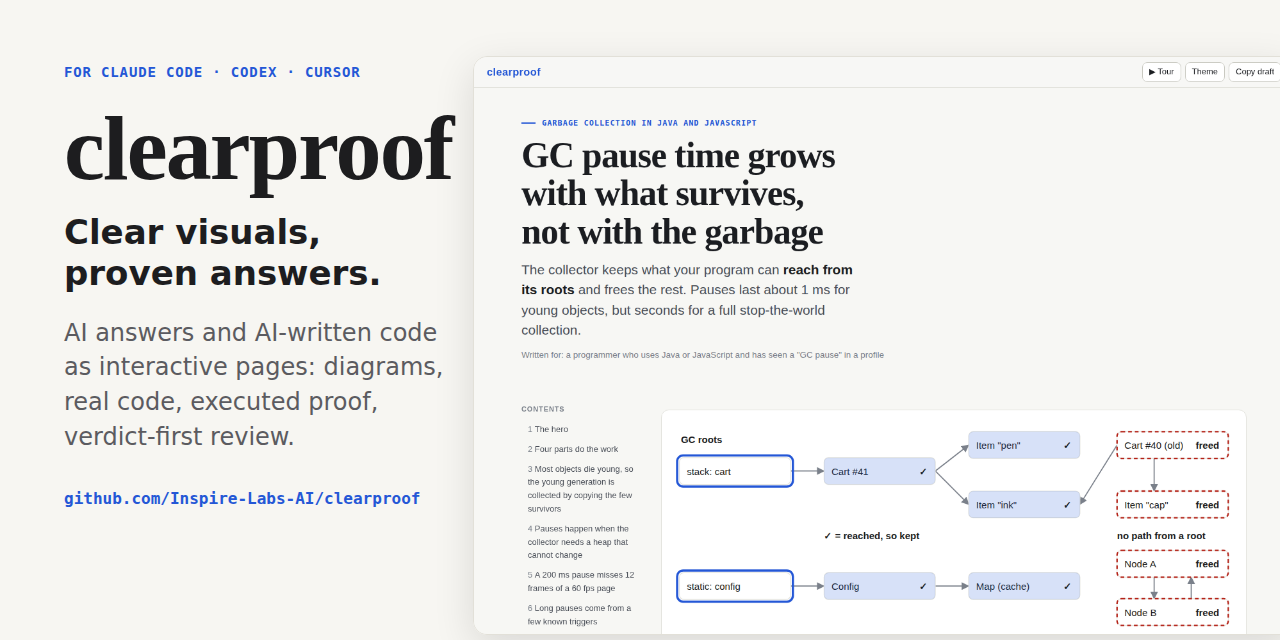
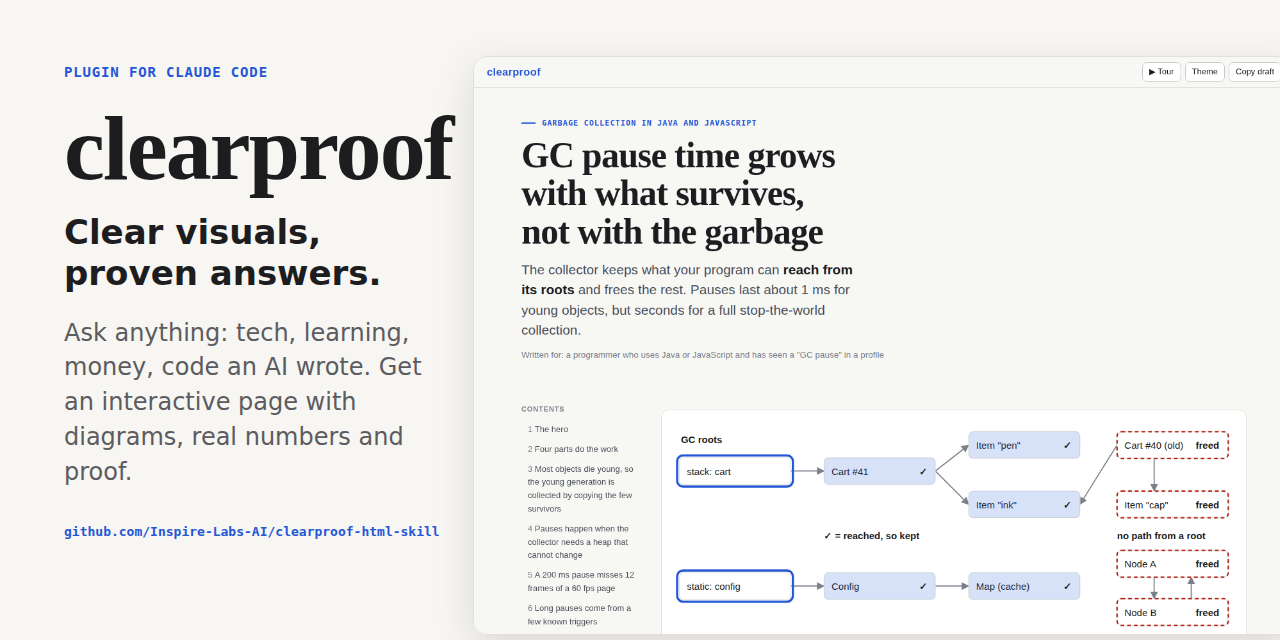
Use clearproof-html-skill as the repository name
Brand plus the words people search for ("html skill"). Update the
install command, links, metadata, landing page, methodology code links
and the social preview (which now uses the product wording).

Claude-Session: https://claude.ai/code/session_015hwiLpJLzKC155qaZvB42B

Changed region(s): [[0.0312, 0.5, 0.3438, 0.8438], [0.0312, 0.0938, 0.1875, 0.125], [0.2188, 0.0938, 0.2812, 0.125]]

diff --git a/docs/methodology.html b/docs/methodology.html
@@ -537,19 +537,19 @@ card('Options → small multiples', 'failure modes, plans, scenarios', (s) => {
 });
 </script></div><p class="figcap"><b>Fig. 2</b> Pick the figure by the shape of the information: a process steps, a setting slides, quantities compare, cases repeat.</p></div></section>
 <section class="panel span-full" id="s-3-prove-the-page-shows-its-evidence" data-say="A number on the page must come from somewhere the reader can check. clearproof runs the real code at render time and prints the output."><div class="kick"><span>04</span> Prove</div><h2><span class="num-accent">3. </span>Prove: the page shows its evidence</h2><div class="prose"><p>A number on the page must come from somewhere the reader can check. clearproof runs the real code at render time and prints the output. It warns when a chart value does not appear in that output.</p></div>
-<figure class="run"><figcaption>Ran while this page was made · real output</figcaption><div class="run-step"><div class="run-head"><code class="cmd">$ node examples/home-loan/loan.mjs prepay</code><span class="exit ok">exit 0</span><span class="ms">45 ms</span></div><p class="run-note">The loan page does not type its numbers. It runs this calculator and quotes its output.</p><pre class="out">Year 1: saves ₹7.99 lakh, ends 24 months early
+<figure class="run"><figcaption>Ran while this page was made · real output</figcaption><div class="run-step"><div class="run-head"><code class="cmd">$ node examples/home-loan/loan.mjs prepay</code><span class="exit ok">exit 0</span><span class="ms">46 ms</span></div><p class="run-note">The loan page does not type its numbers. It runs this calculator and quotes its output.</p><pre class="out">Year 1: saves ₹7.99 lakh, ends 24 months early
 Year 5: saves ₹5.28 lakh, ends 17 months early
 Year 10: saves ₹2.86 lakh, ends 12 months early
 Year 15: saves ₹1.23 lakh, ends 8 months early</pre><div class="checks"><span class="chk shows ok">✓ output shows “Year 1: saves ₹7.99 lakh”</span></div></div></figure>
 <div class="prose"><div class="tbl"><table><thead><tr><th>Domain</th><th>Where proof comes from</th></tr></thead><tbody><tr><td>Code and systems</td><td><code>[[file:line]]</code> references read from disk, <code>run</code> blocks that call the real code, diff hunks from git</td></tr><tr><td>Money</td><td>a calculator in the repo, run at render time; rates and rules cited with links</td></tr><tr><td>Science, health</td><td>linked sources, labelled measurements, &quot;illustrative&quot; on every simplified model</td></tr><tr><td>Decisions, policy</td><td>a <code>claims</code> ledger: verified, inferred, unverified, each with its basis</td></tr></tbody></table></div></div>
-<div class="claims"><div class="claim c-verified"><span class="cs" title="Verified">✓ Verified</span><div><p>The loan figures on this page come from a script, not from the model.</p><p class="ev">run</p></div></div><div class="claim c-verified"><span class="cs" title="Verified">✓ Verified</span><div><p>Every page is checked at 1280 px and 390 px before it is shown.</p><p class="ev"><a class="ref" href="https://github.com/Inspire-Labs-AI/clearproof/blob/HEAD/skills/clearproof/scripts/lib/check.mjs#L1" data-snip="1▌ import { readFileSync } from 'node:fs';
+<div class="claims"><div class="claim c-verified"><span class="cs" title="Verified">✓ Verified</span><div><p>The loan figures on this page come from a script, not from the model.</p><p class="ev">run</p></div></div><div class="claim c-verified"><span class="cs" title="Verified">✓ Verified</span><div><p>Every page is checked at 1280 px and 390 px before it is shown.</p><p class="ev"><a class="ref" href="https://github.com/Inspire-Labs-AI/clearproof-html-skill/blob/HEAD/skills/clearproof/scripts/lib/check.mjs#L1" data-snip="1▌ import { readFileSync } from 'node:fs';
 2  // Look at the rendered page the way a reader would, and report what is broken.
 3  // Problems come back in the same &quot;where / what&quot; shape as draft errors so the agent can fix them.">skills/clearproof/scripts/lib/check.mjs:1</a></p></div></div><div class="claim c-inferred"><span class="cs" title="Inferred">~ Inferred</span><div><p>The method helps any reader who must trust a number.</p><p class="ev">Blind judges scored trust highest on clearproof pages in every round.</p></div></div></div></section>
 <section class="panel span-full" id="s-4-check-the-tool-reads-the-page-before-you-do" data-say="The model never sees its own page by default. clearproof makes it look."><div class="kick"><span>05</span> Check</div><h2><span class="num-accent">4. </span>Check: the tool reads the page before you do</h2><div class="prose"><p>The model never sees its own page by default. clearproof makes it look.</p></div>
 <div class="checklist" data-id="l3"><p class="progress"><span>0</span> of 4 checked</p><ul><li><label><input type="checkbox" data-k="l3-0"> <span>Plain English: one idea per sentence, 25 words at most, active voice (ASD-STE100 style).</span></label></li><li><label><input type="checkbox" data-k="l3-1"> <span>One number per quantity: the render lists every number by unit, so &quot;16 GB&quot; and &quot;15 GB&quot; for the same heap stand out.</span></label></li><li><label><input type="checkbox" data-k="l3-2"> <span>Layout at desktop and phone width: overflow, cut-off tables, overlapping labels, text too small to read.</span></label></li><li><label><input type="checkbox" data-k="l3-3"> <span>Screenshots of the whole page and of each figure, for the next step.</span></label></li></ul></div></section>
 <section class="panel span-full" id="s-5-critique-score-it-like-a-blind-judge-then-fix" data-say="Read all figures on one sheet and score four things. Fix the three weakest in one round, then answer."><div class="kick"><span>06</span> Critique</div><h2><span class="num-accent">5. </span>Critique: score it like a blind judge, then fix</h2><div class="prose"><p>Read all figures on one sheet and score four things. Fix the three weakest in one round, then answer.</p></div>
 <div class="figwrap"><figure class="chart"><svg viewBox="0 0 680 136" role="img" aria-label="Bar chart"><line class="axis" x1="156.95000000000002" x2="156.95000000000002" y1="0" y2="136"/><g data-step="1"><text class="lab" x="148.95000000000002" y="19.5">clearproof</text><rect class="s0" x="157.0" y="6" width="203.0" height="18" rx="3"/><text class="val hot" x="366.0" y="19">18 points<tspan class="anno" dx="10">figure-first pages plus the critique pass</tspan></text></g><g data-step="2"><text class="lab" x="148.95000000000002" y="52.5">visual-explainer</text><rect class="muted" x="157.0" y="39" width="197.4" height="18" rx="3"/><text class="val" x="360.4" y="52">17.5 points</text></g><g data-step="3"><text class="lab" x="148.95000000000002" y="85.5">plain HTML</text><rect class="muted" x="157.0" y="72" width="157.9" height="18" rx="3"/><text class="val" x="320.9" y="85">14 points</text></g><g data-step="4"><text class="lab" x="148.95000000000002" y="118.5">answer-me-with-html</text><rect class="muted" x="157.0" y="105" width="152.3" height="18" rx="3"/><text class="val" x="315.2" y="118">13.5 points</text></g></svg></figure><p class="figcap"><b>Fig. 3</b> clearproof's average explainer score in round 4 was 18.0 of 20, ahead of 17.5 for visual-explainer.</p></div>
-<figure class="run"><figcaption>Ran while this page was made · real output</figcaption><div class="run-step"><div class="run-head"><code class="cmd">$ grep &quot;Explain average&quot; docs/benchmark.md</code><span class="exit ok">exit 0</span><span class="ms">4 ms</span></div><p class="run-note">The chart quotes the benchmark record, not memory.</p><pre class="out">| **Explain average** | **18.0** | 17.5 | 14.0 | 13.5 |</pre><div class="checks"><span class="chk shows ok">✓ output shows “18.0”</span></div></div></figure>
+<figure class="run"><figcaption>Ran while this page was made · real output</figcaption><div class="run-step"><div class="run-head"><code class="cmd">$ grep &quot;Explain average&quot; docs/benchmark.md</code><span class="exit ok">exit 0</span><span class="ms">5 ms</span></div><p class="run-note">The chart quotes the benchmark record, not memory.</p><pre class="out">| **Explain average** | **18.0** | 17.5 | 14.0 | 13.5 |</pre><div class="checks"><span class="chk shows ok">✓ output shows “18.0”</span></div></div></figure>
 <div class="prose"><div class="tbl"><table><thead><tr><th>Score</th><th>Question the judge asks</th></tr></thead><tbody><tr><td>Clarity</td><td>Can I state the answer after the first screen?</td></tr><tr><td>Visuals</td><td>Does each figure show the mechanism, with real values?</td></tr><tr><td>Readability</td><td>Short sentences, labels in the picture, no wall of text?</td></tr><tr><td>Trust</td><td>Can I check each claim? Does each number agree everywhere?</td></tr></tbody></table></div></div></section>
 <section class="panel span-full" id="when-not-to-use-it" data-say="When not to use it"><div class="kick"><span>07</span></div><h2>When not to use it</h2><aside class="callout c-info"><b class="ci" aria-hidden="true">ℹ</b><div><strong>Skip the page</strong><p>One-line answers, commands to copy, quick code edits, or &quot;plain text please&quot;. The method costs about 3 minutes. Spend them when the reader must understand or decide.</p></div></aside></section>
 <section class="panel span-full" id="check-yourself" data-say="Check yourself"><div class="kick"><span>08</span></div><h2>Check yourself</h2><div class="quiz"><div class="q" data-multi="false"><p class="qq"><b>Q1.</b> A friend asks &quot;is a 15-year or a 30-year mortgage better for me?&quot; What is the hero figure?</p><div class="opts"><button type="button" class="opt" data-ok="true">A chart of total interest and monthly payment for both, the key number highlighted<span class="owhy" hidden>Yes. It is a &quot;which is better&quot; question, so the hero is the number.</span></button><button type="button" class="opt" data-ok="false">A flow diagram of how a bank approves a loan<span class="owhy" hidden>That answers a different question.</span></button><button type="button" class="opt" data-ok="false">A glossary of loan terms<span class="owhy" hidden>Terms help, but they do not show the answer.</span></button></div></div><div class="q" data-multi="false"><p class="qq"><b>Q2.</b> Where should the numbers on that page come from?</p><div class="opts"><button type="button" class="opt" data-ok="true">A small calculator, run at render time, its output shown on the page<span class="owhy" hidden>Yes. Then the reader can check them, and the page cannot drift from the math.</span></button><button type="button" class="opt" data-ok="false">The model's memory of typical rates<span class="owhy" hidden>The model can misremember. Proof beats assertion.</span></button></div></div><p class="score" aria-live="polite"></p></div></section>
@@ -558,7 +558,7 @@ Year 15: saves ₹1.23 lakh, ends 8 months early</pre><div class="checks"><span 
 </div>
 <div class="tourbar" hidden><button type="button" data-act="tprev" aria-label="Previous">‹</button><button type="button" data-act="tpause" aria-label="Pause">❚❚</button><button type="button" data-act="tnext" aria-label="Next">›</button><p class="tcap" aria-live="polite"></p><button type="button" data-act="tstop" aria-label="Close tour">✕</button></div>
 <div class="snip" role="tooltip" hidden></div>
-<footer>Made with clearproof 0.1.0 · 2026-10-05 07:36</footer>
+<footer>Made with clearproof 0.1.0 · 2026-10-05 07:39</footer>
 <script type="application/json" id="clearproof-glossary">{}</script>
 <script type="text/plain" id="clearproof-source">---
 kicker: The clearproof method

diff --git a/docs/index.html b/docs/index.html
@@ -9,9 +9,9 @@
 <meta property="og:type" content="website">
 <meta property="og:title" content="clearproof — clear visuals, proven answers">
 <meta property="og:description" content="Turn AI answers and AI-written code into interactive pages people understand fast and can verify.">
-<meta property="og:image" content="https://inspire-labs-ai.github.io/clearproof/images/explain-gc.png">
+<meta property="og:image" content="https://inspire-labs-ai.github.io/clearproof-html-skill/images/explain-gc.png">
 <meta name="twitter:card" content="summary_large_image">
-<link rel="canonical" href="https://inspire-labs-ai.github.io/clearproof/">
+<link rel="canonical" href="https://inspire-labs-ai.github.io/clearproof-html-skill/">
 <style>
 :root{--bg:#f7f6f2;--ink:#1d1d1f;--muted:#5b5b60;--line:#e2e0d8;--accent:#2457d6;--card:#fff}
 @media (prefers-color-scheme:dark){:root{--bg:#141416;--ink:#ececef;--muted:#a3a3ab;--line:#2c2c31;--accent:#7aa2ff;--card:#1c1c20}}
@@ -38,11 +38,11 @@ footer{margin-top:56px;color:var(--muted);font-size:14px}
 <h1>clearproof: clear visuals, proven answers</h1>
 <p class="lead">Ask Claude anything — a tech concept, a topic you are learning, a money decision, code an AI wrote — and get one interactive page you understand in minutes and can trust: diagrams you step through, charts from real numbers, and proof for every claim.</p>
 <div class="cta">
-<a class="primary" href="https://github.com/Inspire-Labs-AI/clearproof">View on GitHub</a>
+<a class="primary" href="https://github.com/Inspire-Labs-AI/clearproof-html-skill">View on GitHub</a>
 <a href="examples/garbage-collection.html">See an explainer</a>
-<a href="https://github.com/Inspire-Labs-AI/clearproof/blob/HEAD/docs/benchmark.md">Benchmark</a>
+<a href="https://github.com/Inspire-Labs-AI/clearproof-html-skill/blob/HEAD/docs/benchmark.md">Benchmark</a>
 </div>
-<pre>/plugin marketplace add Inspire-Labs-AI/clearproof
+<pre>/plugin marketplace add Inspire-Labs-AI/clearproof-html-skill
 /plugin install clearproof@clearproof</pre>
 <img src="images/explain-gc.png" alt="clearproof explainer: the answer as the headline and a step-through diagram of garbage-collection marking">
 
@@ -55,7 +55,7 @@ footer{margin-top:56px;color:var(--muted);font-size:14px}
 <a class="card" href="methodology.html"><b>The clearproof method</b><span>Plan, draw, prove, check, critique.</span></a>
 <a class="card" href="how-we-built-clearproof.html"><b>How we built it</b><span>Five blind benchmark rounds and why they are fair.</span></a>
 </div>
-<footer>MIT licensed · <a href="https://github.com/Inspire-Labs-AI/clearproof">github.com/Inspire-Labs-AI/clearproof</a></footer>
+<footer>MIT licensed · <a href="https://github.com/Inspire-Labs-AI/clearproof-html-skill">github.com/Inspire-Labs-AI/clearproof-html-skill</a></footer>
 </main>
 </body>
 </html>

diff --git a/CONTRIBUTING.md b/CONTRIBUTING.md
@@ -5,8 +5,8 @@ Thanks for helping. clearproof has no runtime dependencies; keep it that way.
 ## Set up
 
 ```bash
-git clone https://github.com/Inspire-Labs-AI/clearproof.git
-cd clearproof
+git clone https://github.com/Inspire-Labs-AI/clearproof-html-skill.git
+cd clearproof-html-skill
 npm test          # Node.js 20+; no install step
 ```
 
@@ -29,6 +29,6 @@ npm test          # Node.js 20+; no install step
 1. One change per pull request, with a test when behaviour changes.
 2. `npm test` passes; changed examples render with `--check` and no layout problems.
 3. A new component needs `help` text with a working example, and a line in the SKILL.md table.
-4. Rendering a page for `docs/`? Set `CLEARPROOF_LINK='https://github.com/Inspire-Labs-AI/clearproof/blob/HEAD/{path}#L{line}'`
+4. Rendering a page for `docs/`? Set `CLEARPROOF_LINK='https://github.com/Inspire-Labs-AI/clearproof-html-skill/blob/HEAD/{path}#L{line}'`
    so code references link to GitHub, not to your machine.
 5. If a change claims to improve output quality, show it: a before/after page or a benchmark run as in [docs/benchmark.md](docs/benchmark.md).

diff --git a/README.md b/README.md
@@ -8,7 +8,7 @@
 interactive page you understand in minutes and can trust: diagrams you step through, charts from real numbers, and
 proof for every claim.**
 
-[![CI](https://github.com/Inspire-Labs-AI/clearproof/actions/workflows/ci.yml/badge.svg)](https://github.com/Inspire-Labs-AI/clearproof/actions/workflows/ci.yml)
+[![CI](https://github.com/Inspire-Labs-AI/clearproof-html-skill/actions/workflows/ci.yml/badge.svg)](https://github.com/Inspire-Labs-AI/clearproof-html-skill/actions/workflows/ci.yml)
 [![License: MIT](https://img.shields.io/badge/license-MIT-blue.svg)](LICENSE)
 ![Claude Code plugin](https://img.shields.io/badge/Claude%20Code-plugin-8A63D2.svg)
 ![Works offline](https://img.shields.io/badge/pages-offline-brightgreen.svg)
@@ -39,7 +39,7 @@ and you cannot tell which sentences are checked and which are guessed.
 **In Claude Code** (terminal, desktop app or IDE), run these two commands once:
 
 ```text
-/plugin marketplace add Inspire-Labs-AI/clearproof
+/plugin marketplace add Inspire-Labs-AI/clearproof-html-skill
 /plugin install clearproof@clearproof
 ```
 
